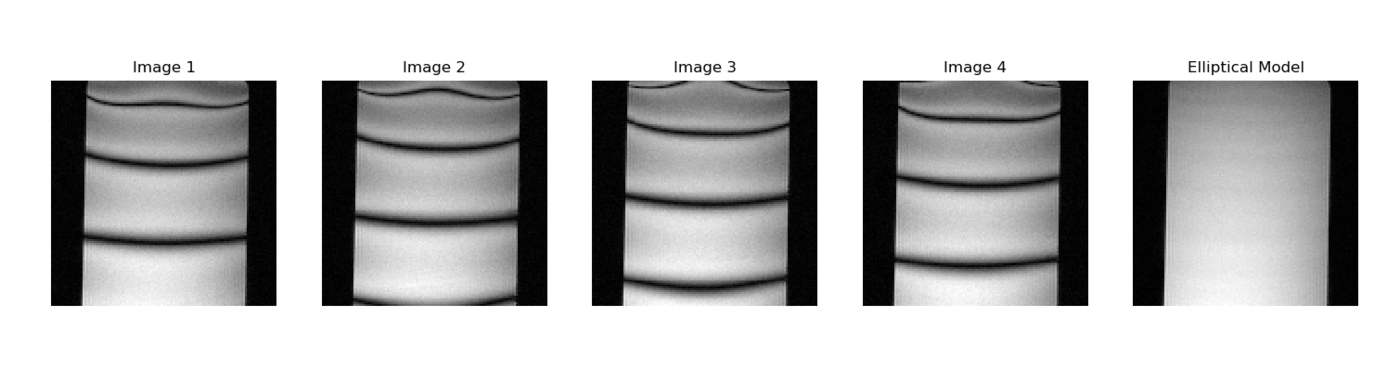
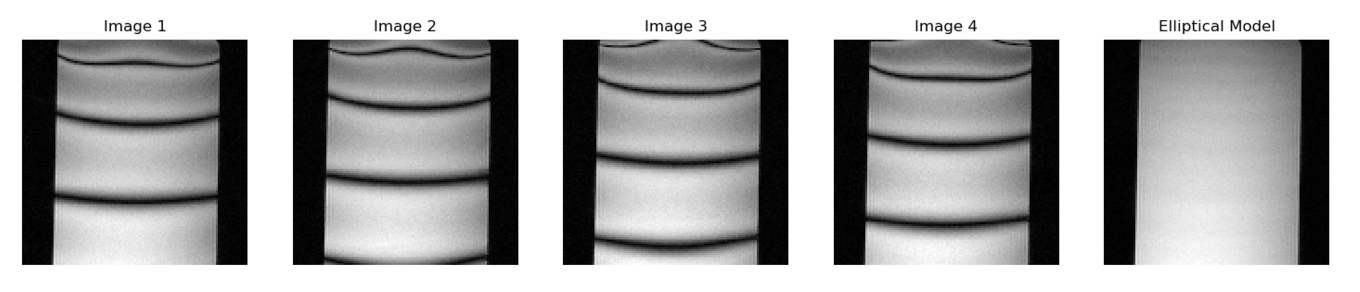
Updated data crop, and results images

diff --git a/data.py b/data.py
@@ -14,8 +14,8 @@ class DataSet:
              self.imgs, self.out = self.load_format_data_subset()
 
         self.SIZE = self.imgs.shape[0]
-        self.WIDTH = self.imgs.shape[1]
-        self.HEIGHT = self.imgs.shape[2]
+        self.HEIGHT = self.imgs.shape[1]
+        self.WIDTH = self.imgs.shape[2]
         self.CHANNELS_IN = self.imgs.shape[3]
         self.CHANNELS_OUT = 2
         self.ratio = 0.8
@@ -32,7 +32,7 @@ class DataSet:
         x = 132; y = 12; z = 32; wx = 256; wy = 128; wz = 64
         imgs = imgs[x:x+wx, y:y+wy, z:z+wz, :]
         out = out[x:x+wx, y:y+wy, z:z+wz]
-        
+
         # Swap axies 
         imgs = np.swapaxes(imgs,0,2);
         imgs = np.swapaxes(imgs,1,2);

diff --git a/net.py b/net.py
@@ -22,7 +22,7 @@ data = DataSet(True)
 data.print()
 
 # Training Parameters
-learning_rate = 1e-4 
+learning_rate = 1e-4
 num_steps = 10000
 batch_size = 16
 display_step = 100
@@ -68,7 +68,7 @@ prediction = sess.run(prediction, feed_dict={ X: data.x_test, Y: data.y_test })
 data.plot(data.x_test[0], data.y_test[0], prediction[0])
 
 # Plot loss
-plt.plot(_step, np.log(_loss))
+plt.plot(_step, np.log10(_loss))
 plt.title('Mean Squared Error (MSE)')
 plt.xlabel('Epoches')
 plt.ylabel('ln(MSE)')
